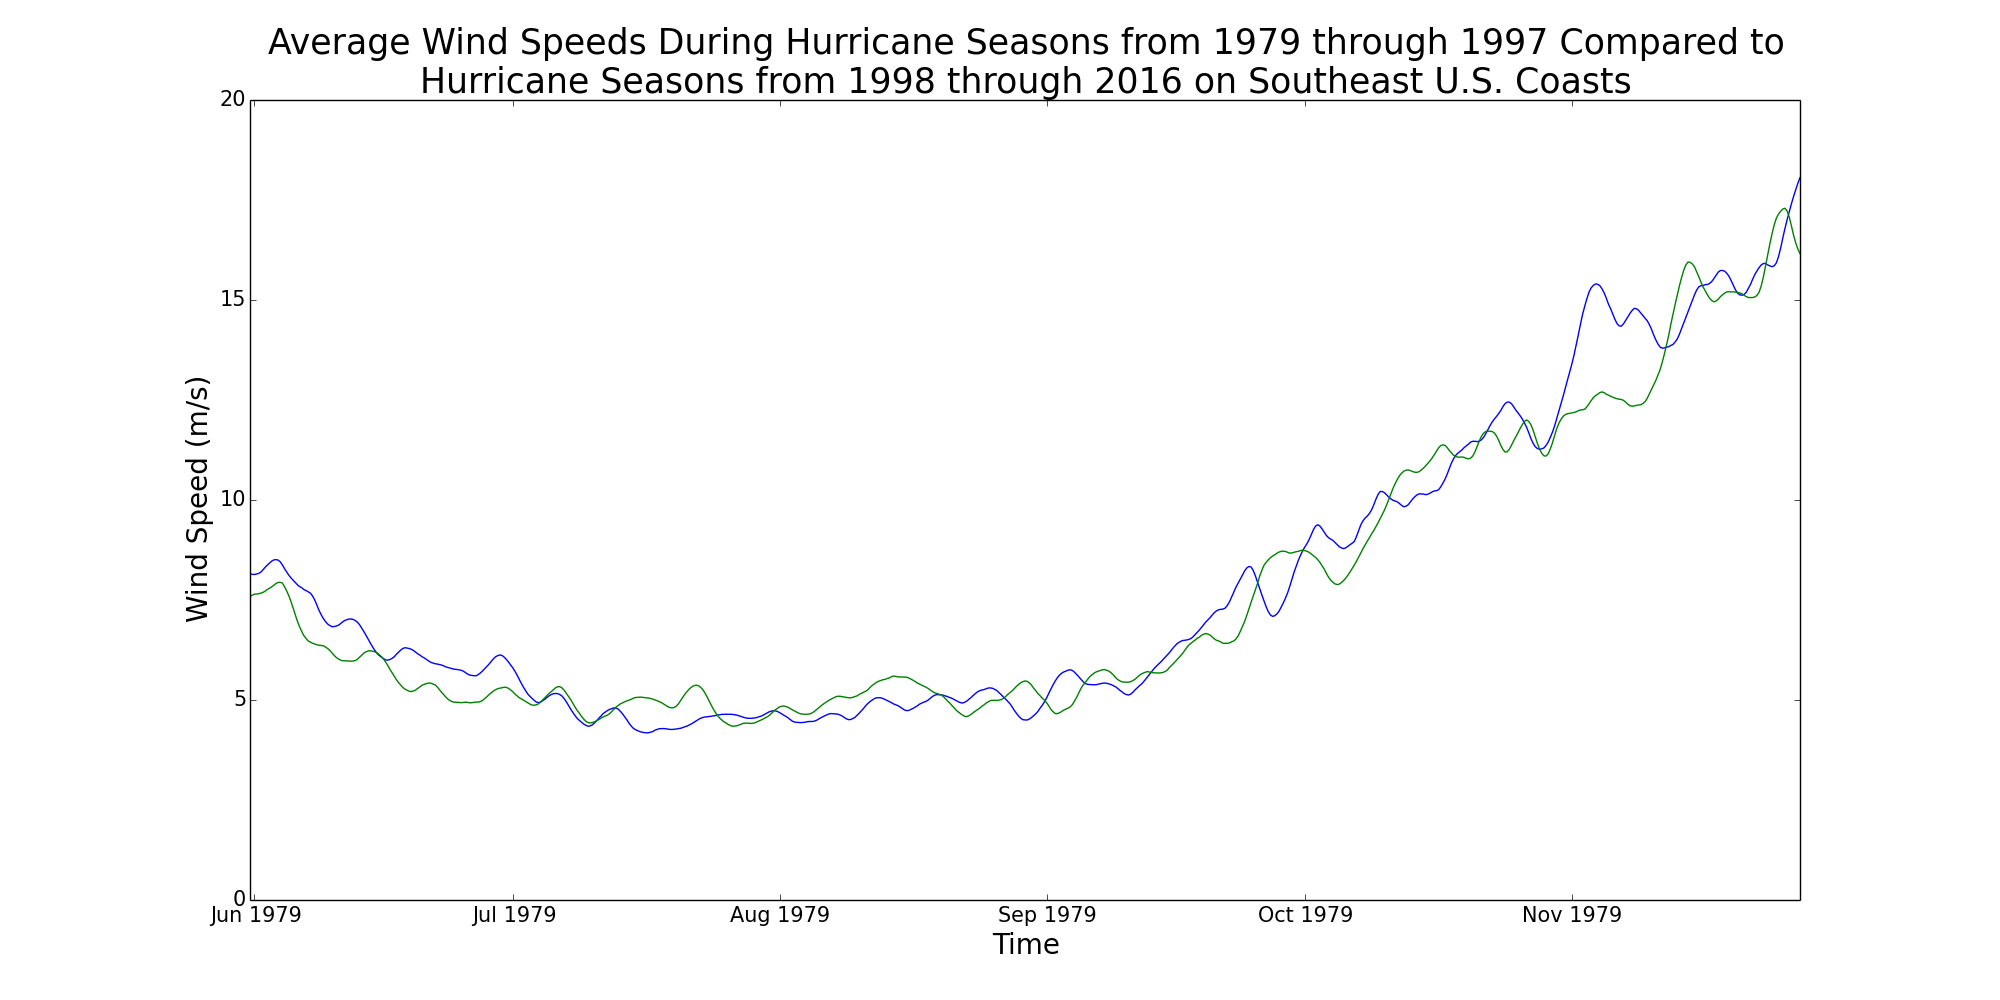
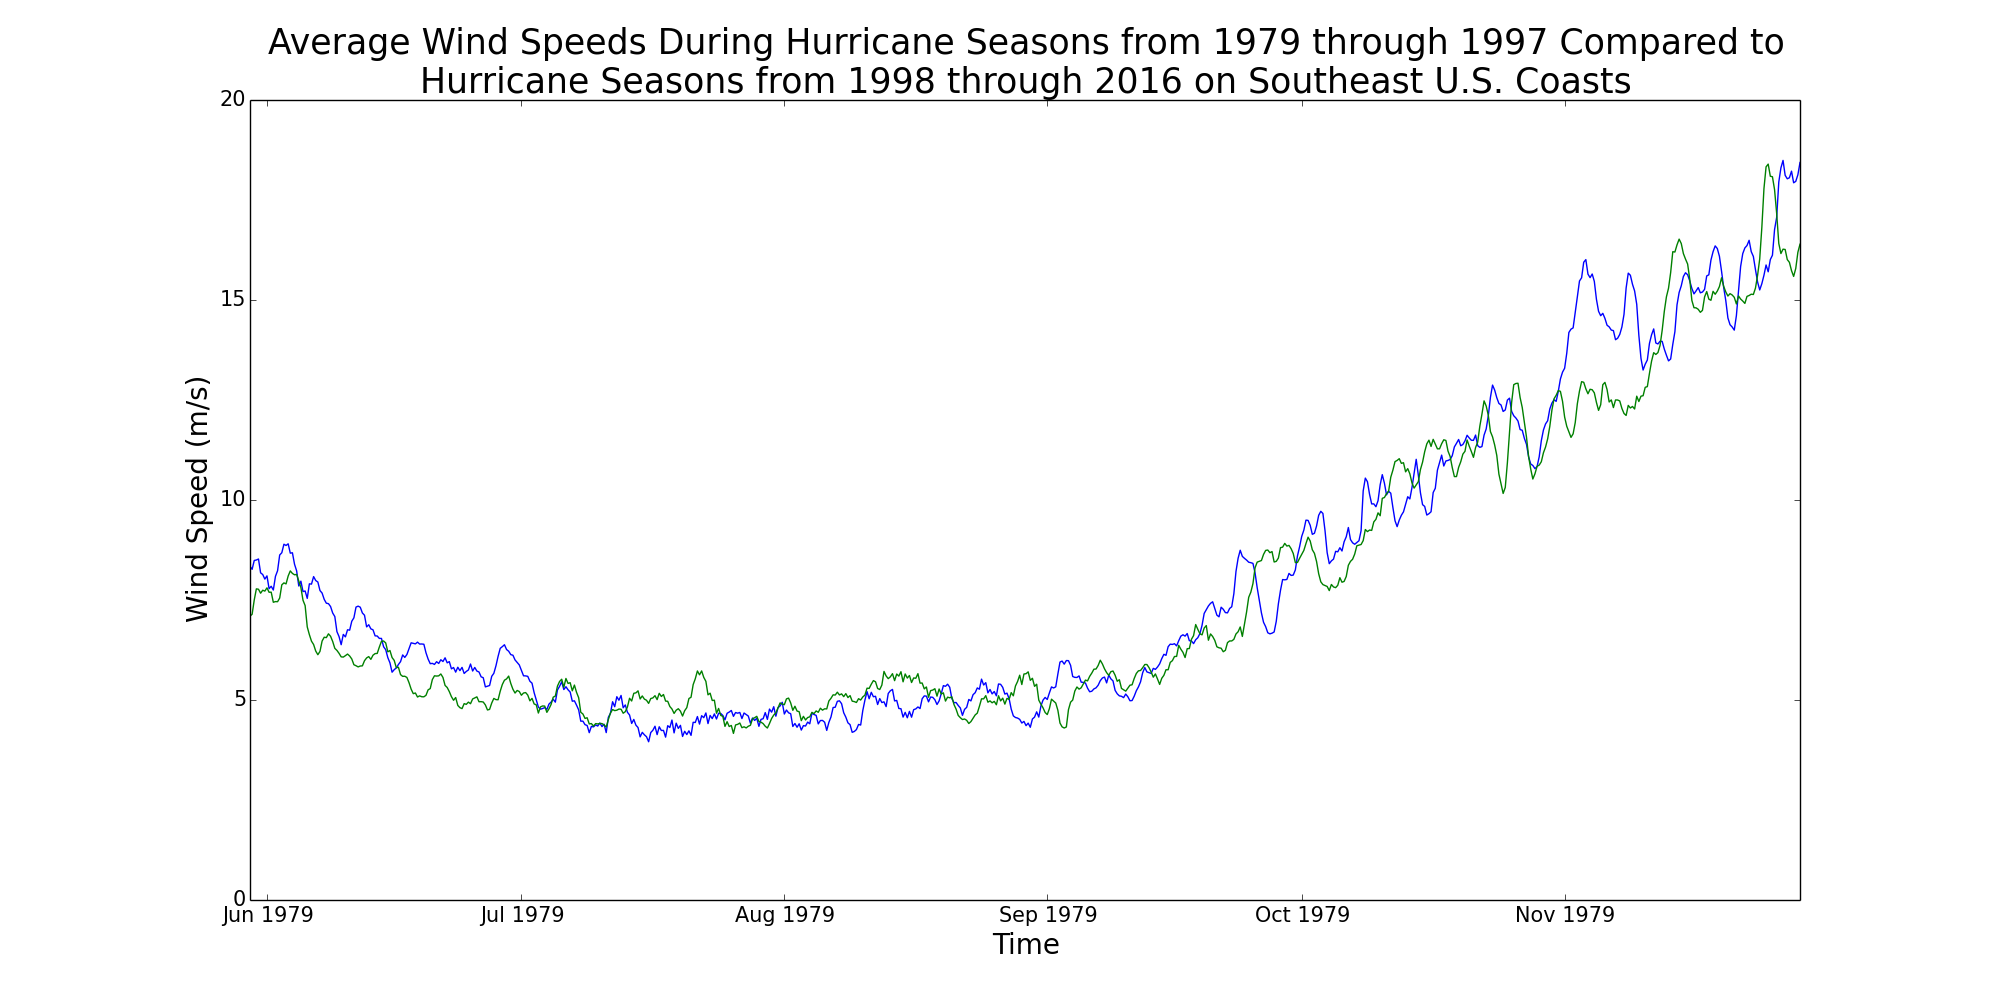
Updated one figure

diff --git a/DLM_stats.py b/DLM_stats.py
@@ -398,19 +398,19 @@ def averageWindsEachTime(wind_speeds, dates_and_times, time_interval):
 
         i = i + 1
 
-    #new_dates_and_times = dates_and_times
+    new_dates_and_times = dates_and_times
     # Optionally, also perform a low pass filter averaging method to smoothen the curve
-    temp_wind_speeds = avg_wind_speeds
-    avg_wind_speeds = []
-    i = time_interval / 2
-    while i < (len(temp_wind_speeds) - (time_interval / 2) + 1):
+    #temp_wind_speeds = avg_wind_speeds
+    #avg_wind_speeds = []
+    #i = time_interval / 2
+    #while i < (len(temp_wind_speeds) - (time_interval / 2) + 1):
         # Update times
-        new_dates_and_times.append(dates_and_times[i])
+    #    new_dates_and_times.append(dates_and_times[i])
 
         # Average wind speeds
-        avg_wind_speeds.append(np.sum(temp_wind_speeds[(i - (time_interval / 2)):(i + (time_interval / 2))])/time_interval)
+    #    avg_wind_speeds.append(np.sum(temp_wind_speeds[(i - (time_interval / 2)):(i + (time_interval / 2))])/time_interval)
 
-        i = i + 1
+    #    i = i + 1
 
     return avg_wind_speeds, new_dates_and_times
 
@@ -967,14 +967,14 @@ plt.rc('axes', titlesize = 25)
 plt.rc('axes', labelsize = 20)
 plt.rc('xtick', labelsize = 15)
 plt.rc('ytick', labelsize = 15)
-plt.plot(dates_and_times_1y, avg_wind_speeds_79_97)
-plt.plot(dates_and_times_1y, avg_wind_speeds_98_16)
+plt.plot(dates_and_times_1y[0:732], avg_wind_speeds_79_97)
+plt.plot(dates_and_times_1y[0:732], avg_wind_speeds_98_16)
 plt.ylim(ymin = 0)
 plt.ylabel('Wind Speed (m/s)')
 plt.xlabel('Time')
 plt.title('Average Wind Speeds During Hurricane Seasons from 1979 through 1997 ' +
           'Compared to\nHurricane Seasons from 1998 through 2016 on ' + location_names[region][1])
-plt.savefig('Figures/Time_Series/Yearly/Filtered_' + location_names[region][0]  + '_Time_Series_3d_Avg_Comparison.png')
+plt.savefig('Figures/Time_Series/Yearly/Filtered_' + location_names[region][0]  + '_Time_Series_Avg_Comparison.png')
 plt.show()
 
 # Generate histograms to show the frequency distribution for the wind speeds at all
